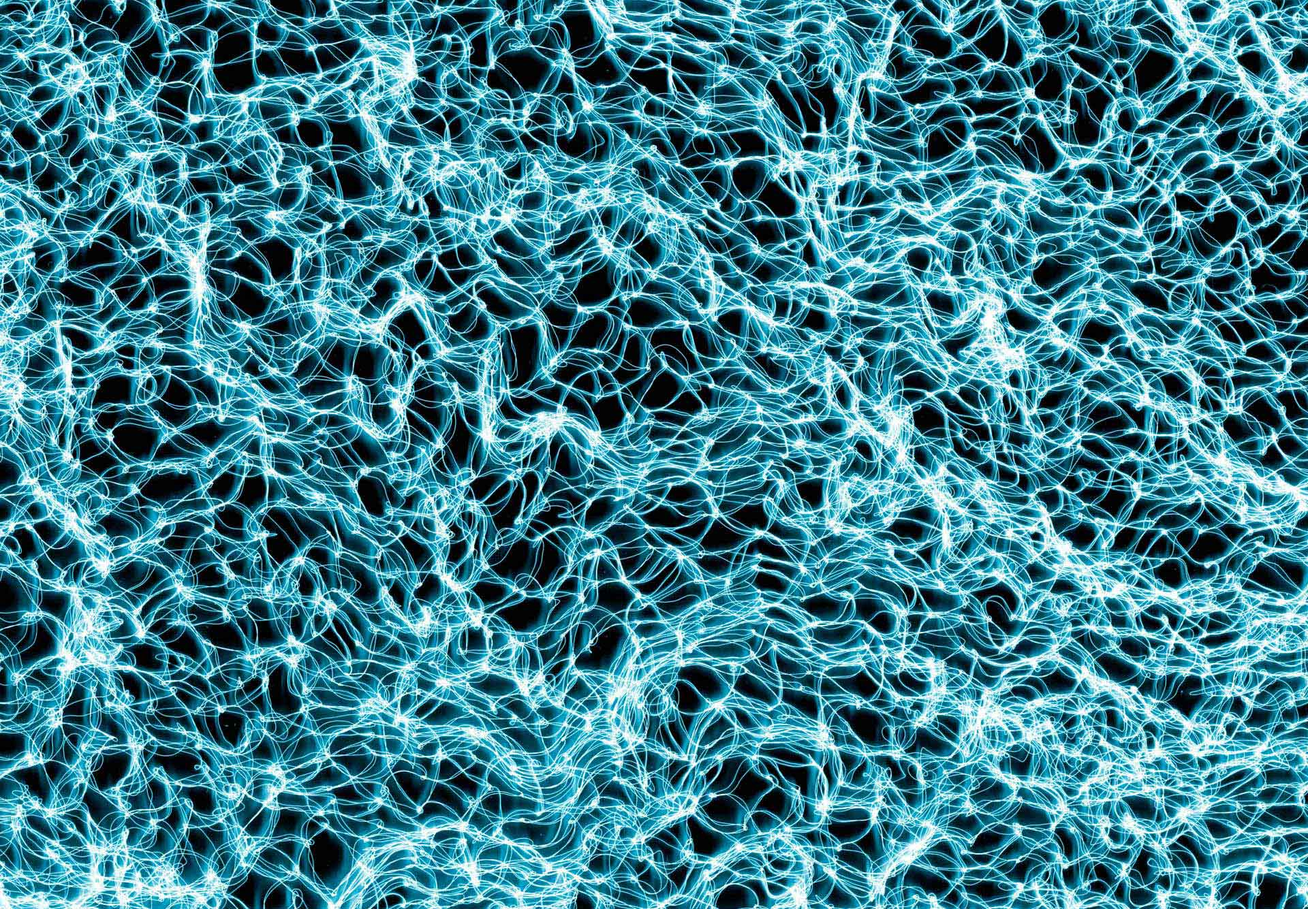
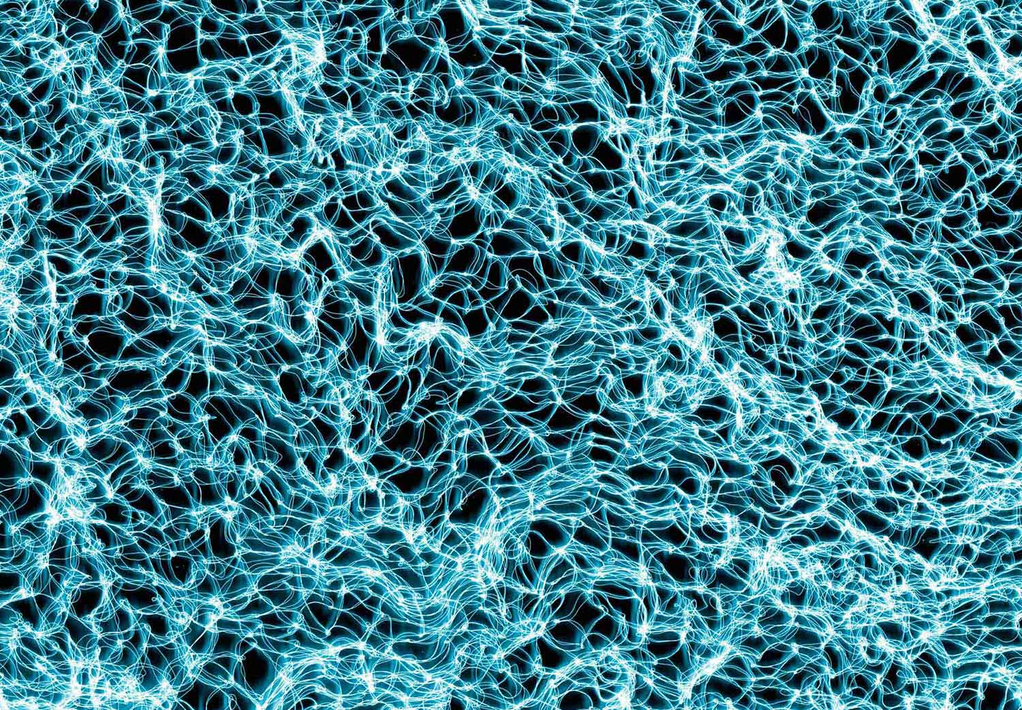
vite config + deploy + img optim
+ tweaked vite config for css issue
+ tweaked deploy script ... works! 🚀
+ optimized 2 images

Changed region(s): [[0.0, 0.0, 1.0, 1.0]]

diff --git a/vite.config.js b/vite.config.js
@@ -1,23 +1,39 @@
-const { resolve } = require('path')
-const { defineConfig } = require('vite')
+const { resolve } = require("path");
+const { defineConfig } = require("vite");
 
 module.exports = defineConfig({
-  base: '/mechaneyes-projects/',
+  base: "/mechaneyes-projects/",
   build: {
     rollupOptions: {
       input: {
-        main: resolve(__dirname, 'index.html'),
-        betterbreaks: resolve(__dirname, 'projects/better-breaks/index.html'),
-        loops: resolve(__dirname, 'projects/loops/index.html'),
-        formalism: resolve(__dirname, 'projects/formalism/index.html'),
-        gossamer: resolve(__dirname, 'projects/gossamer/index.html'),
-        monolyth: resolve(__dirname, 'projects/monolyth/index.html'),
-        munariveil: resolve(__dirname, 'projects/munari-veil/index.html'),
-        objects: resolve(__dirname, 'projects/objects/index.html'),
-        soundnoir: resolve(__dirname, 'projects/sound-noir/index.html'),
-        stereoh: resolve(__dirname, 'projects/stereoh/index.html'),
-        whirligrid: resolve(__dirname, 'projects/whirligrid/index.html'),
-      }
-    }
-  }
-})
+        main: resolve(__dirname, "index.html"),
+        betterbreaks: resolve(__dirname, "projects/better-breaks/index.html"),
+        loops: resolve(__dirname, "projects/loops/index.html"),
+        formalism: resolve(__dirname, "projects/formalism/index.html"),
+        gossamer: resolve(__dirname, "projects/gossamer/index.html"),
+        monolyth: resolve(__dirname, "projects/monolyth/index.html"),
+        munariveil: resolve(__dirname, "projects/munari-veil/index.html"),
+        objects: resolve(__dirname, "projects/objects/index.html"),
+        soundnoir: resolve(__dirname, "projects/sound-noir/index.html"),
+        stereoh: resolve(__dirname, "projects/stereoh/index.html"),
+        whirligrid: resolve(__dirname, "projects/whirligrid/index.html"),
+      },
+    },
+  },
+  css: {
+    postcss: {
+      plugins: [
+        {
+          postcssPlugin: "internal:charset-removal",
+          AtRule: {
+            charset: (atRule) => {
+              if (atRule.name === "charset") {
+                atRule.remove();
+              }
+            },
+          },
+        },
+      ],
+    },
+  },
+});
